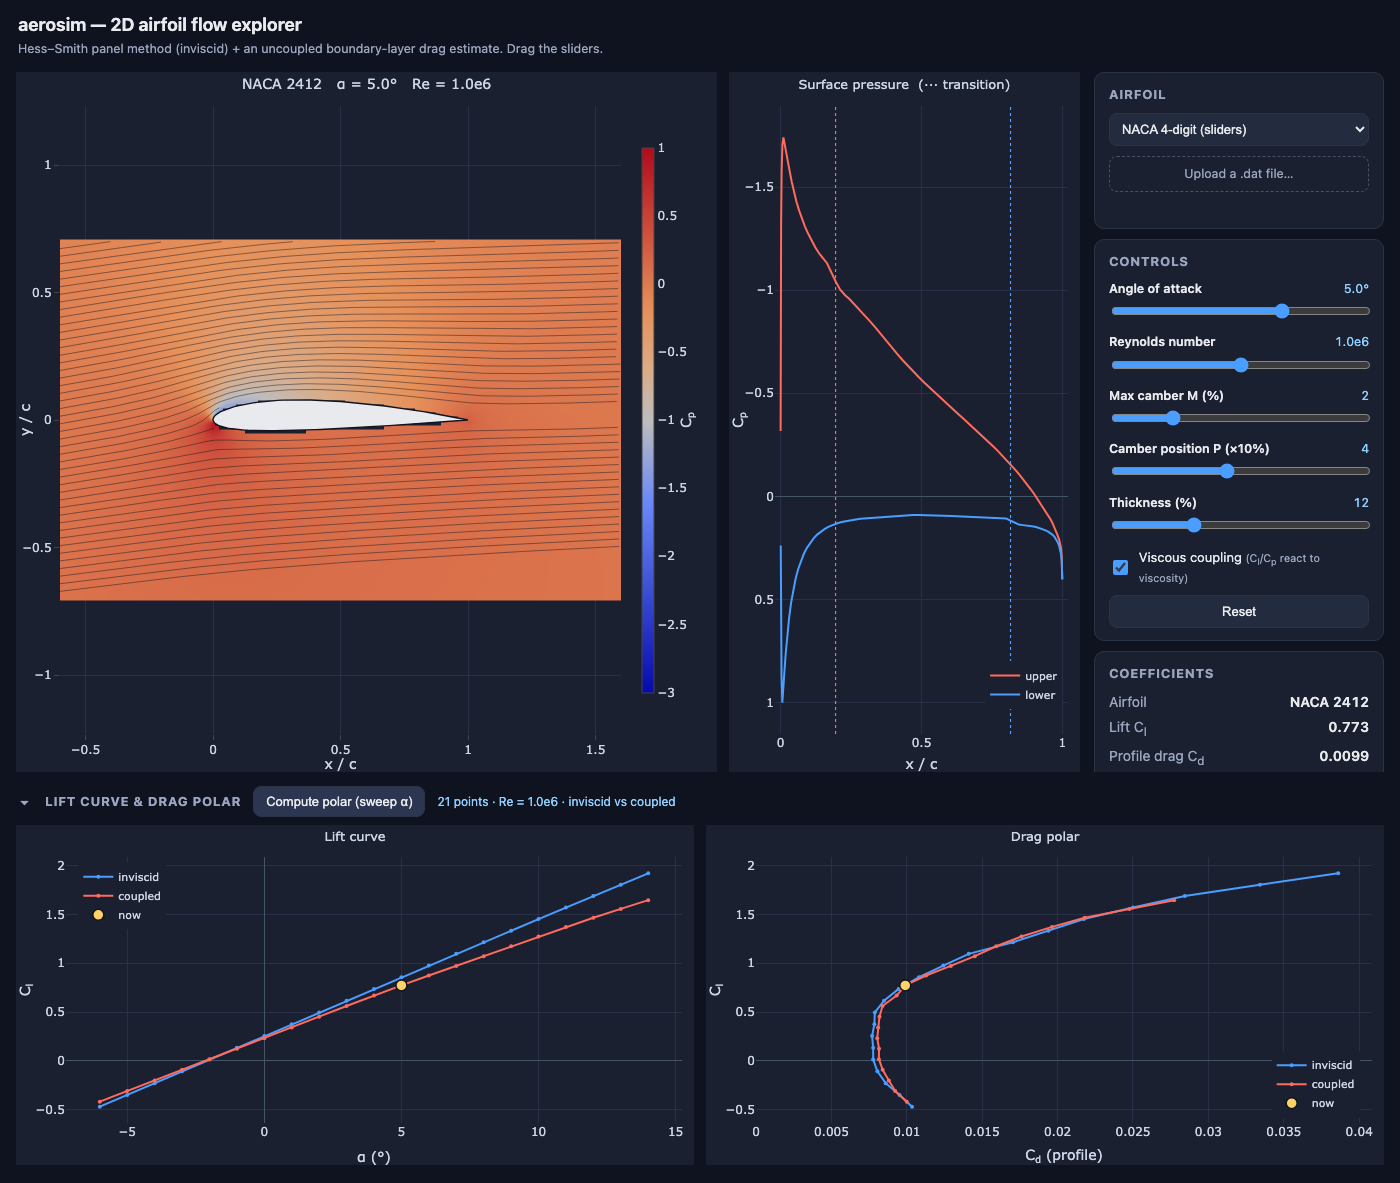
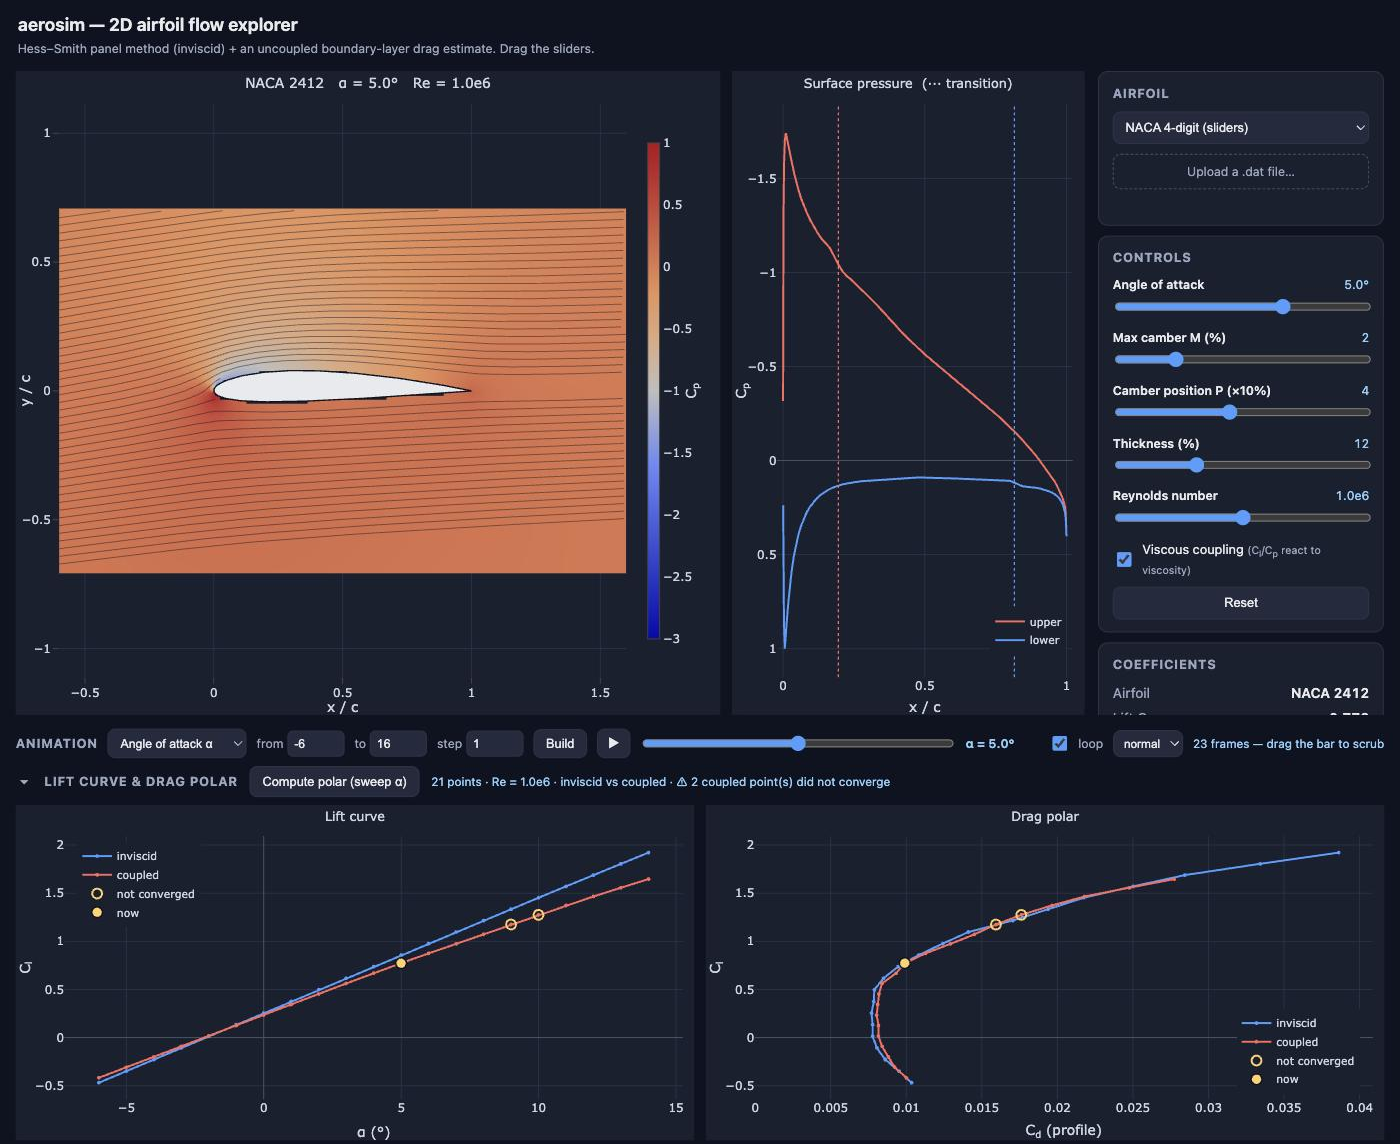
Document the animation panel and refresh the preview screenshot
The Web UI section covered the sliders, the airfoil panel and the polar but
never mentioned the animation strip. Describe what it sweeps, that frames
are cached so scrubbing and looping never re-solve, that it deliberately
leaves the sliders alone while playing, and that a loaded .dat file can only
sweep alpha.

web-preview.png was two features behind: captured before the animation strip
and before the polar started ringing non-converged coupled points, and it
still showed Reynolds in its old slider position. The replacement shows all
three, composed so the page is self-consistent -- coupling on, polar
computed, and the animation parked at the same alpha the sliders show, so
the plots, the coefficient card and the polar's "now" marker agree.

The capture is stitched from two screenshots (the full page is taller than
the display), aligned by minimising pixel difference across the overlap. It
is JPEG-sourced, since the capture tool emits JPEG, so it carries mild
compression artifacts the previous native PNG did not.

Claude-Session: https://claude.ai/code/session_0155e6HTnrDM2gfVXwHKXTwy

diff --git a/README.md b/README.md
@@ -35,6 +35,15 @@ visible directly; coupled points where the iteration did not converge (it stops
 converging as you approach stall) are ringed in amber rather than drawn as
 settled answers.
 
+Between the flow view and the polar sits an **Animation** strip: choose angle of
+attack, max camber M, camber position P or thickness, give it a from/to/step
+range, and **Build** sweeps that one parameter and plays the result back — the
+flow field, surface pressure and coefficients all follow the sweep. Frames are
+solved once and cached, so scrubbing, looping and changing speed never re-solve.
+The sliders are left alone while it plays (each plot titles itself with what it
+is showing), and touching any of them stops playback and returns to live mode. A
+loaded `.dat` airfoil can only sweep α, since M/P/t are NACA shape digits.
+
 The web page is a thin front-end — all physics lives in the UI-agnostic solver
 core, which you can also drive directly from a script or notebook.
 
